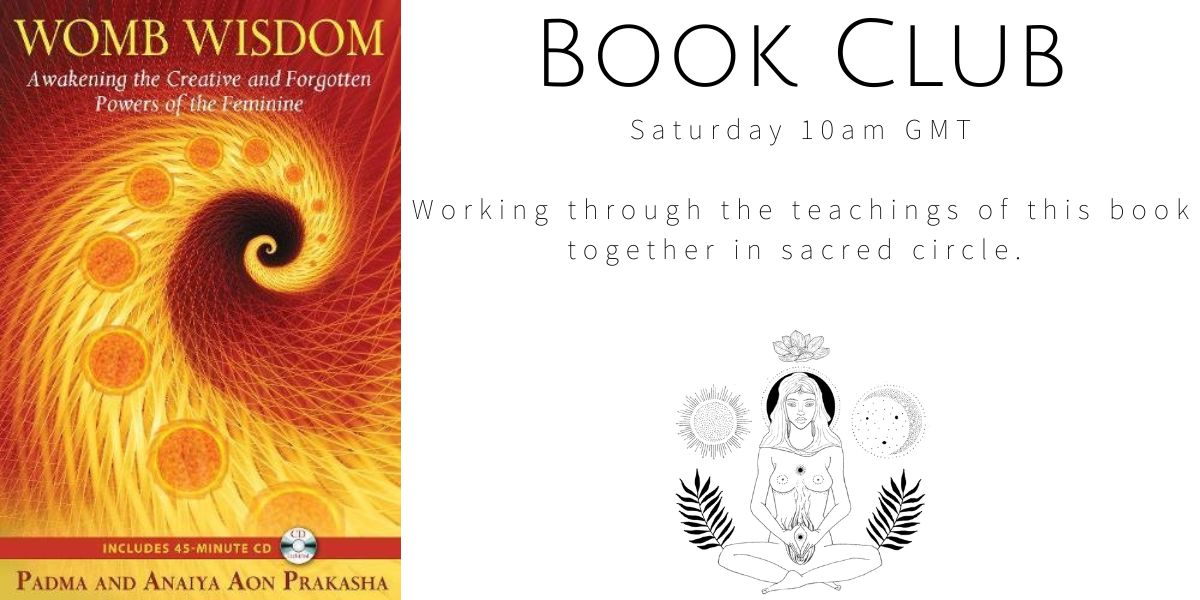
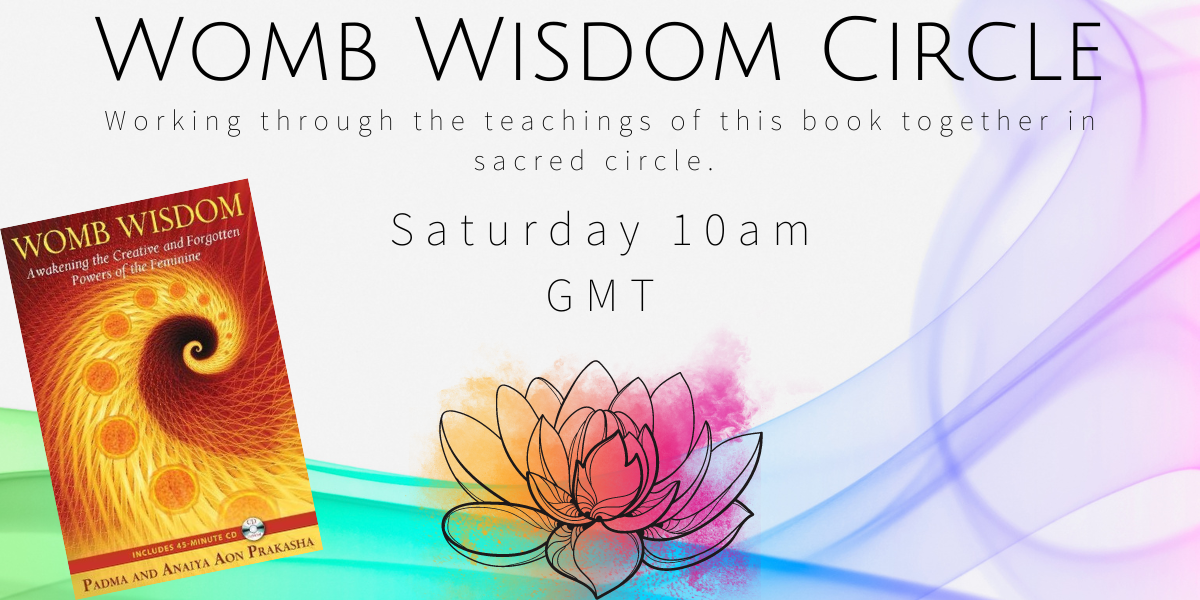
updateFEb1

diff --git a/offerings.html b/offerings.html
@@ -126,7 +126,7 @@
                 </div>
                 <div class="online">
                     <a href= "https://lu.ma/Womb_Wisdom_Book_Club" target=”_blank”>
-                    <img class="responsive-image" src="./images/book-club.png" width="600px"></a>
+                    <img class="responsive-image" src="./images/womb-wisdom.png" width="600px"></a>
                 </div>
             </div>
     
@@ -135,7 +135,7 @@
 
             <div class="online-container">            
 
-                <div class="online-card">
+                <!-- <div class="online-card">
                     <div class="weekday">
                         <p>Sunday</p>
                     </div>
@@ -143,7 +143,7 @@
                         <a href= "https://lu.ma/YinYogaMantra" target=”_blank”>
                         <img class="responsive-image" src="./images/yin-matra.png" width="600px"></a>
                     </div>
-                </div>
+                </div> -->
 
                 <div class="online-card">
                     <div class="weekday">
